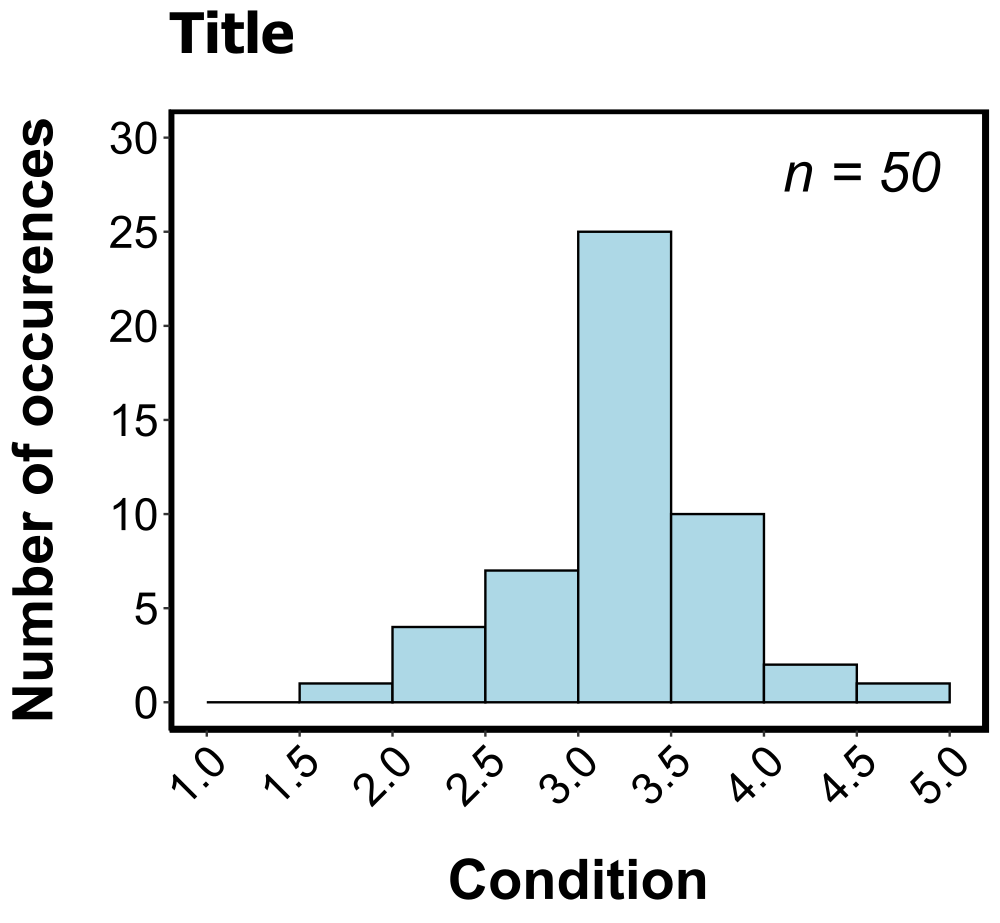
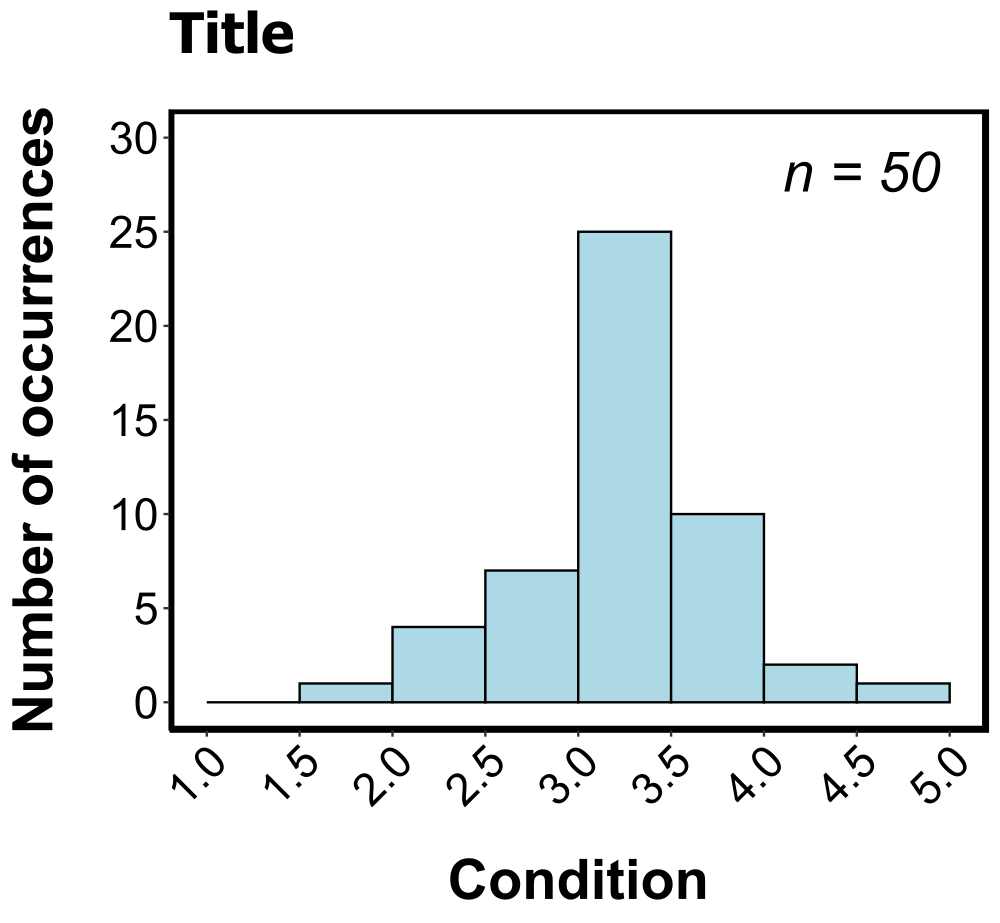
Correcting typos and adding instructive commenting

Changed region(s): [[0.0, 0.1213, 0.062, 0.7887]]

diff --git a/histogram/README.md b/histogram/README.md
@@ -2,7 +2,7 @@
 
 ## Author details: 
 Name: Sam Huguet  
-E-mail: samhuguet1@gmail.com
+E-mail: samhuguet1@gmail.com  
 Date created: 13<sup>th</sup> December 2020
 
 ## Description: 
@@ -25,7 +25,7 @@ Date created: 13<sup>th</sup> December 2020
 
 <img src="https://github.com/SamHSoftware/R-Graphing-And-Statistics/blob/master/histogram/img/File%20selection.PNG?raw=true" alt="File selection GUI" width="500"/>  
 
-Using the GUI, select the .csv file containing the individual column of data you wish to analyse. 
+Using the GUI, select the .csv file containing the individual column of data you wish to analyse. You can find some example data [here](https://github.com/SamHSoftware/R-Graphing-And-Statistics/tree/master/histogram/data).
 
 This is achieved using the following code: 
 ```
